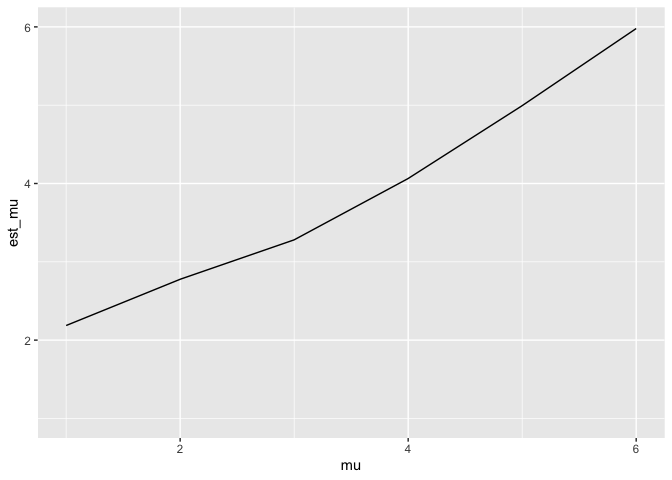
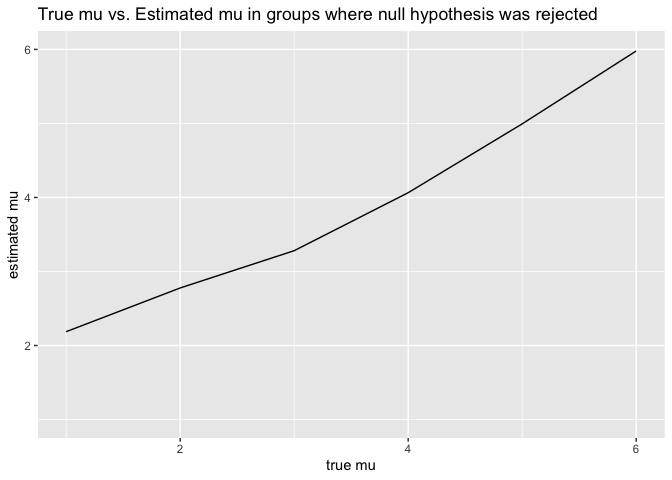
added labels

diff --git a/p8105_hw5_yd2739.md b/p8105_hw5_yd2739.md
@@ -130,7 +130,8 @@ file_info_pivoted|>
   group_by(arm, ID)|>
   ggplot(aes(x = week, y = value, group = interaction(arm, ID), color = arm))+
   geom_line()+
-  facet_grid(~arm)
+  facet_grid(~arm)+
+  labs(x = "Week", y = "Value", title = "Observation of subjects over time")
 ```
 
 ![](p8105_hw5_yd2739_files/figure-gfm/unnamed-chunk-7-1.png)<!-- -->
@@ -151,7 +152,7 @@ simulation = function(mu) {
     sample = rnorm(n, mean = mu, sd = sigma)
     test_result = t.test(sample, mu = 0)
     tidy_test_result = broom::tidy(test_result)
-    c(estimate = pull(tidy_test_result, estimate), p.value = pull(tidy_test_result, p.value), mu)
+    c(estimate = pull(tidy_test_result, estimate), p.value = pull(tidy_test_result, p.value), true_mu = mu)
   })
   t(results)
 }
@@ -160,13 +161,13 @@ zero_sim_df = simulation(0)
 head(zero_sim_df)
 ```
 
-    ##      estimate.mean of x     p.value  
-    ## [1,]         -1.4821249 0.082592075 0
-    ## [2,]         -2.7580914 0.003764344 0
-    ## [3,]          0.6930022 0.444539249 0
-    ## [4,]          0.5576401 0.455856968 0
-    ## [5,]          0.5433625 0.553492124 0
-    ## [6,]          0.6322573 0.523250133 0
+    ##      estimate.mean of x     p.value true_mu
+    ## [1,]         -1.4821249 0.082592075       0
+    ## [2,]         -2.7580914 0.003764344       0
+    ## [3,]          0.6930022 0.444539249       0
+    ## [4,]          0.5576401 0.455856968       0
+    ## [5,]          0.5433625 0.553492124       0
+    ## [6,]          0.6322573 0.523250133       0
 
 ``` r
 sim_output = vector("list", length = 6)
@@ -178,26 +179,38 @@ for (i in 1:6){
 
 ``` r
 sim_output_df = data.frame(do.call(rbind, sim_output))|>
-  rename(mu = V3)|>
   mutate(reject = ifelse(p.value < 0.025 | p.value > 0.975, 1, 0))
  
 sim_output_df|>
-  group_by(mu)|>
+  group_by(true_mu)|>
   summarise(mean_rej = mean(reject))|>
-  ggplot(aes(x = factor(mu), y = mean_rej))+
-  geom_bar(stat = "identity", fill = "blue")
+  ggplot(aes(x = factor(true_mu), y = mean_rej))+
+  geom_bar(stat = "identity", fill = "blue")+
+  labs(x = "true mu", y = "mean rejtection rate", title = "bar plot of change of rejection rate when true mu change")
 ```
 
-![](p8105_hw5_yd2739_files/figure-gfm/unnamed-chunk-10-1.png)<!-- --> We
-could see that as the mu increase, the rejection rate increase. So the
-power increase as effect size increase.
+![](p8105_hw5_yd2739_files/figure-gfm/unnamed-chunk-10-1.png)<!-- -->
 
 ``` r
 sim_output_df|>
-  group_by(mu)|>
+  group_by(true_mu)|>
+  summarise(mean_rej = mean(reject))|>
+  ggplot(aes(x = true_mu, y = mean_rej))+
+  geom_line()+
+  labs(x = "true mu", y = "mean rejtection rate", title = "line plot of change of rejection rate when true mu change")
+```
+
+![](p8105_hw5_yd2739_files/figure-gfm/unnamed-chunk-10-2.png)<!-- --> We
+could see that as the true_mu increase, the rejection rate increase. So
+the power increase as effect size increase.
+
+``` r
+sim_output_df|>
+  group_by(true_mu)|>
   summarise(est_mu = mean(estimate.mean.of.x))|>
-  ggplot(aes(x = mu, y = est_mu))+
-  geom_line()
+  ggplot(aes(x = true_mu, y = est_mu))+
+  geom_line()+
+  labs(x = "true mu", y = "estimated mu", title = "True mu vs. Estimated mu")
 ```
 
 ![](p8105_hw5_yd2739_files/figure-gfm/unnamed-chunk-11-1.png)<!-- -->
@@ -205,11 +218,12 @@ sim_output_df|>
 ``` r
 sim_output_df|>
   subset(reject == 1)|>
-  group_by(mu)|>
+  group_by(true_mu)|>
   summarise(est_mu = mean(estimate.mean.of.x))|>
-  ggplot(aes(x = mu, y = est_mu))+
+  ggplot(aes(x = true_mu, y = est_mu))+
   geom_line()+
-  ylim(1, 6)
+  ylim(1, 6)+
+  labs(x = "true mu", y = "estimated mu", title = "True mu vs. Estimated mu in groups where null hypothesis was rejected")
 ```
 
 ![](p8105_hw5_yd2739_files/figure-gfm/unnamed-chunk-12-1.png)<!-- --> We
